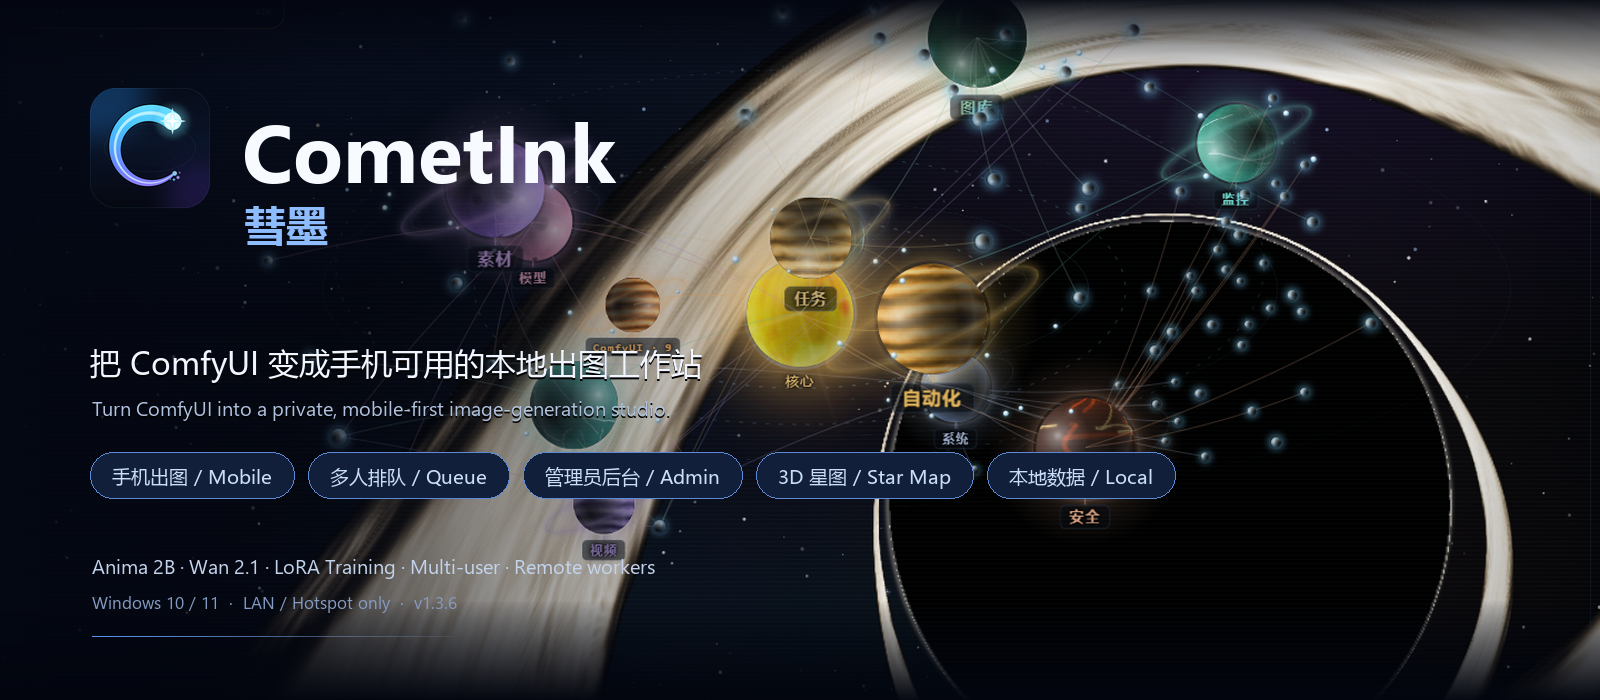
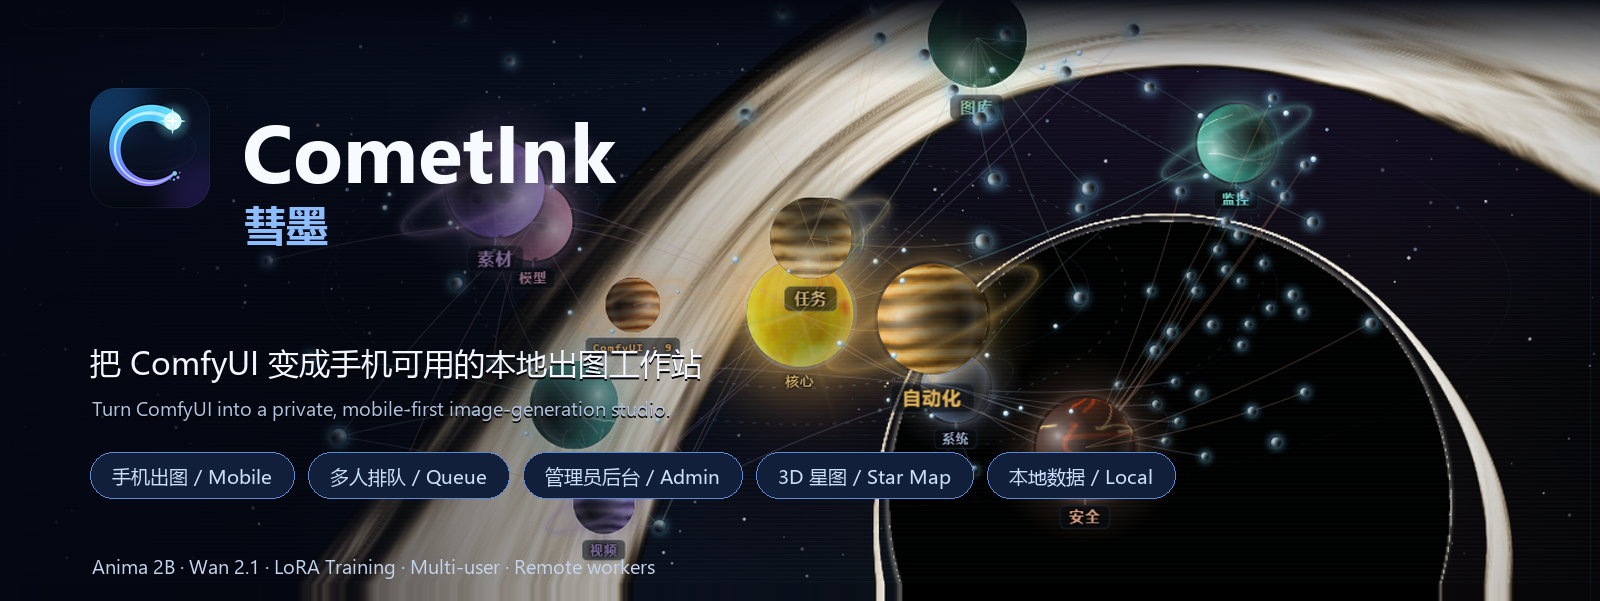
docs: 重做 GitHub 首屏展示
- hero 去掉过期版本号，首屏改为 品牌图 → 一句话 → 下载/手册/展示按钮 → 徽章
- 新增三联通栏图和 3 张宣传片截帧，原来的长截图列表收进展示文档
- 仓库 description 和 topics 同步更新

diff --git a/README.md b/README.md
@@ -1,46 +1,42 @@
-# CometInk 彗墨 · ComfyUI 手机出图
-
-把 ComfyUI 包装成一个可以用手机浏览器访问的本地出图工作台。  
-Turn ComfyUI into a private, mobile-first image-generation studio.
-
-<p align="center"><a href="#english">English</a> &nbsp;·&nbsp; <a href="#chinese">中文</a></p>
-
-> **完整双语介绍（含管理员后台、UI 与星图截图/GIF）：** [GITHUB_INTRO.md](GITHUB_INTRO.md)  
-> Full bilingual showcase with admin console, UI and star-map screenshots/GIFs: [GITHUB_INTRO.md](GITHUB_INTRO.md)
->
-> **English installation & usage guide:** [INSTALL.en.md](INSTALL.en.md)  
-> 英文安装、启动、手机访问、出图、图库、后台、训练和故障排查。
->
-> **完整使用手册：** [MANUAL.md](MANUAL.md)  
-> 安装、界面、出图、图库、队列、多账号、训练、星图、安全与故障排查，都在这里。
-
 <p align="center">
   <img src="docs/media/hero.png" alt="CometInk 彗墨" width="100%">
 </p>
 
-<p align="center">
-  <img src="docs/media/zh/ui-generator.png" alt="中文出图工作台" width="49%">
-  <img src="docs/media/en/ui-generator.png" alt="English generator" width="49%">
-</p>
-<p align="center"><sub>出图工作台 · Generator（中 / EN）</sub></p>
+<h1 align="center">CometInk 彗墨</h1>
 
 <p align="center">
-  <img src="docs/media/zh/admin-overview.png" alt="中文管理员后台" width="49%">
-  <img src="docs/media/en/admin-overview.png" alt="English admin console" width="49%">
+  <b>把 ComfyUI 变成手机可用的本地出图工作站</b><br>
+  <sub>Turn ComfyUI into a private, mobile-first image-generation studio.</sub>
 </p>
-<p align="center"><sub>管理员后台 · Admin console（中 / EN）</sub></p>
 
 <p align="center">
-  <img src="docs/media/zh/star-map.png" alt="中文 3D 接口星图" width="49%">
-  <img src="docs/media/en/star-map.png" alt="English 3D star map" width="49%">
+  <a href="https://github.com/OXNEXUS-WANG/ComfyUI-Mobile-Studio/releases/latest"><img src="https://img.shields.io/badge/Download-Latest-6f8cff?style=for-the-badge&logo=github" alt="Download"></a>
+  <a href="MANUAL.md"><img src="https://img.shields.io/badge/Manual-%E4%B8%AD%E6%96%87-2ea44f?style=for-the-badge" alt="Manual"></a>
+  <a href="GITHUB_INTRO.md"><img src="https://img.shields.io/badge/Showcase-%E6%88%AA%E5%9B%BE%E4%B8%8E%E5%8A%9F%E8%83%BD-8b7cf6?style=for-the-badge" alt="Showcase"></a>
+  <a href="INSTALL.en.md"><img src="https://img.shields.io/badge/English-Guide-14b8a6?style=for-the-badge" alt="English"></a>
 </p>
-<p align="center"><sub>3D 接口星图 · 3D API star map（中 / EN）</sub></p>
 
 <p align="center">
-  <img src="docs/media/zh/ui-tabs.gif" alt="中文页面切换" width="49%">
-  <img src="docs/media/en/ui-tabs.gif" alt="English page tabs" width="49%">
+  <img alt="version" src="https://img.shields.io/github/v/release/OXNEXUS-WANG/ComfyUI-Mobile-Studio?label=version&color=6f8cff">
+  <img alt="tests" src="https://img.shields.io/badge/tests-257%20passed-14b8a6">
+  <img alt="license" src="https://img.shields.io/badge/license-PolyForm%20NC%201.0-8b5cf6">
+  <img alt="platform" src="https://img.shields.io/badge/platform-Windows%2010%2F11-0078d4">
+  <img alt="ComfyUI" src="https://img.shields.io/badge/ComfyUI-0.42-ff6b6b">
 </p>
-<p align="center"><sub>页面切换 · Page tabs（中 / EN）</sub></p>
+
+<p align="center">
+  <img src="docs/media/showcase-panel.png" alt="出图工作台 / 管理员后台 / 3D 接口星图" width="100%">
+</p>
+<p align="center"><sub>出图工作台 · 管理员后台 · 3D 接口星图（中 / EN）</sub></p>
+
+<p align="center">
+  <img src="docs/media/video/typing.jpg" width="32%" alt="中文提示词直接写">
+  <img src="docs/media/video/result.jpg" width="32%" alt="8GB 显存出图">
+  <img src="docs/media/video/star-map.jpg" width="32%" alt="3D 接口星图">
+</p>
+<p align="center"><sub>宣传片截帧：中文直接写 → 8GB 出图 → 3D 接口星图</sub></p>
+
+<p align="center"><a href="#english">English</a> &nbsp;·&nbsp; <a href="#chinese">中文</a></p>
 
 > 截图为演示数据，作品由 CometInk 调用 Anima 2B / Juggernaut XI 生成。  
 > Screenshots use demo data; artwork was generated through CometInk with Anima 2B / Juggernaut XI.
